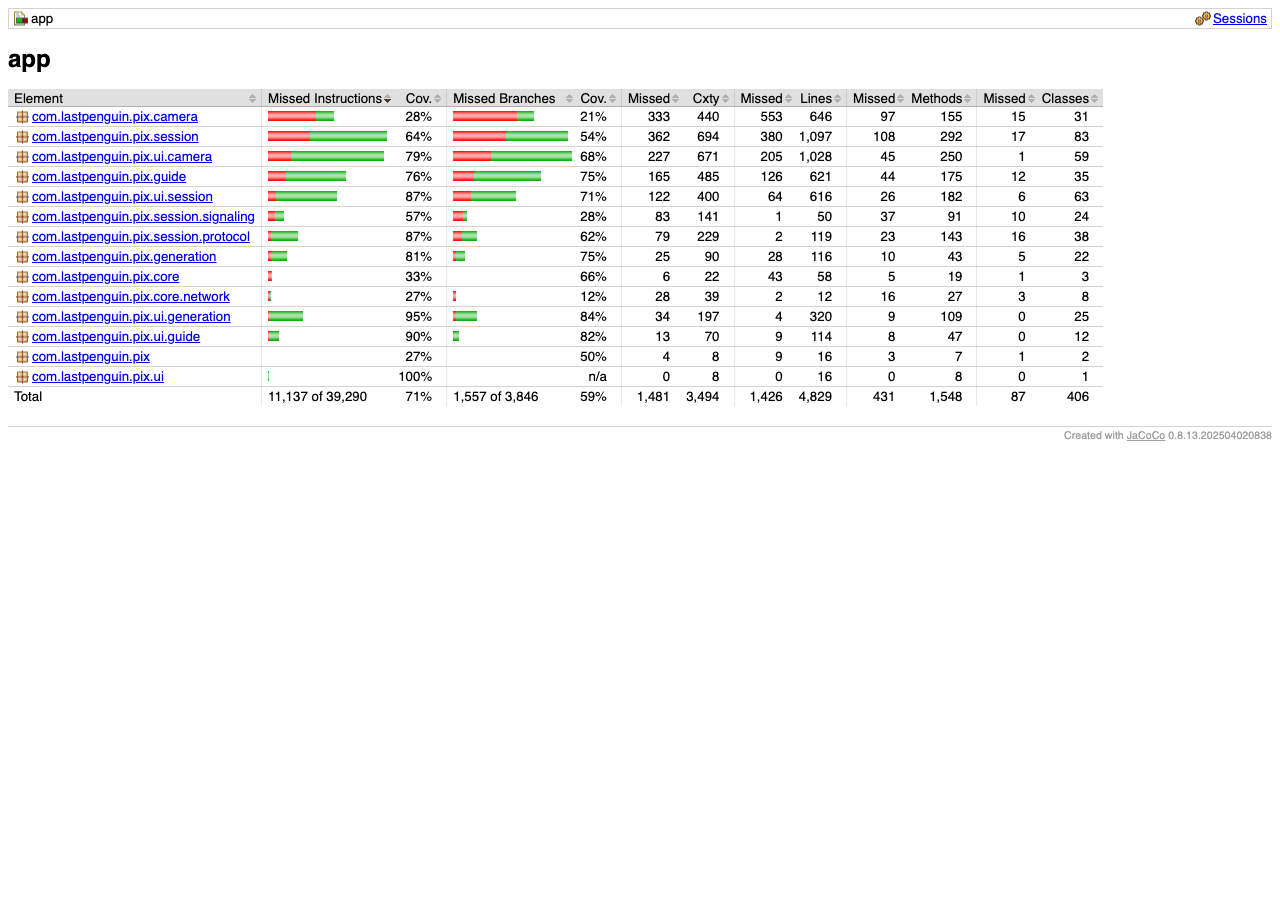
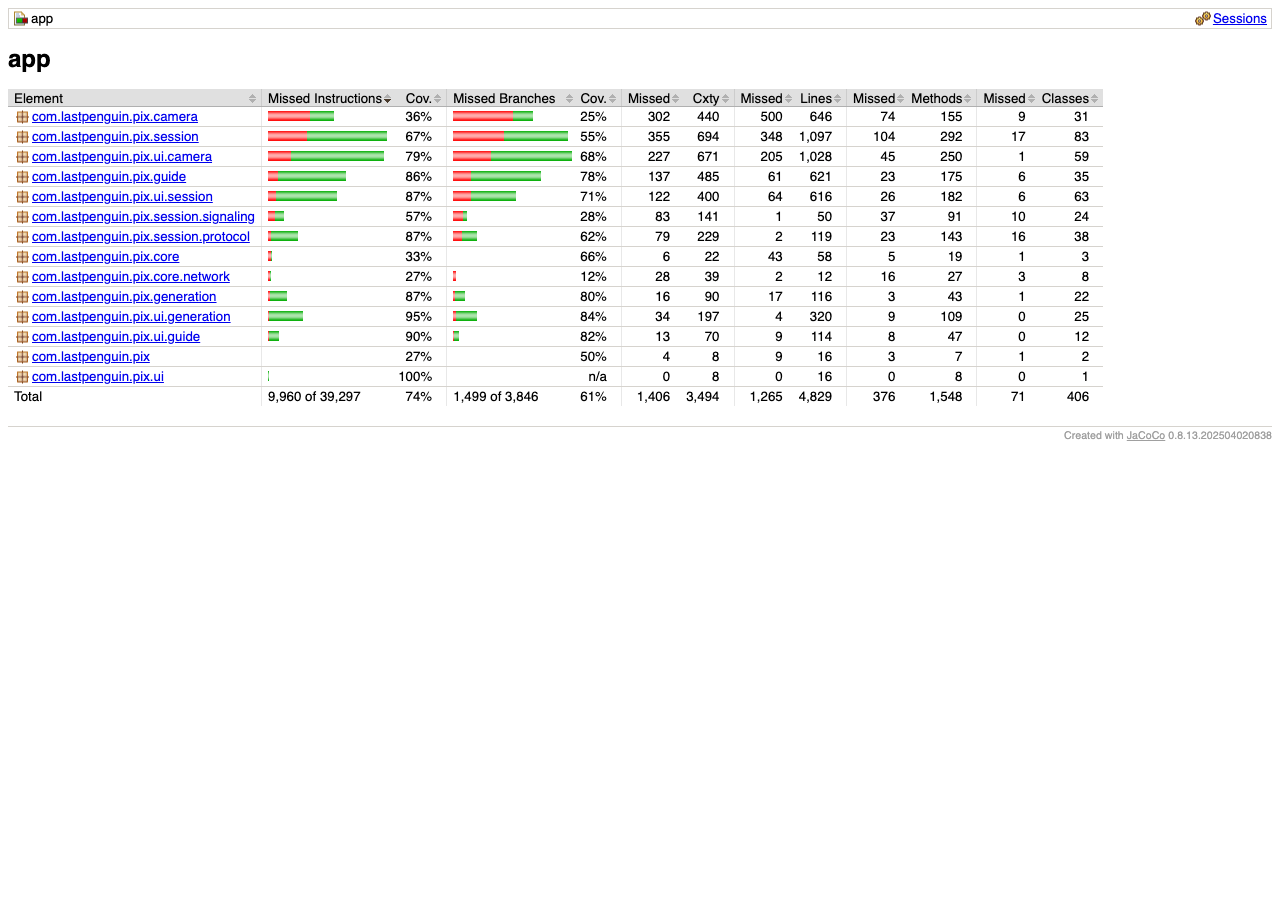
wiki: re-record the Iteration 2 results on the adapter-test commit

diff --git a/wiki/Testing-Documentation.md b/wiki/Testing-Documentation.md
@@ -240,17 +240,17 @@ Results are added per iteration and never overwritten; each iteration gets its o
 
 #### 2.2.1 Iteration 2 · unit and integration tests, coverage
 
-**Run.** Date: 2026-10-22 · Commit: `39c013c` on `chore/a1-coverage` (#94; the same code goes to `dev` with that PR) · Tester: 한준형 · Commands: those in 2.1.4, on a MacBook Air (Apple silicon) with JDK 21.0.12 and Python 3.11.17; the server suite on fakeredis and SQLite (the CI run on a real Redis and PostgreSQL is the same suite). The layer of each app class follows 2.1.2: `*ViewModel` are ViewModels; everything under `ui/` and the custom Views are Views; `CameraXController`, `CameraControls`, `MlKit…`, `Rtc…`, `WebRtc…`, `…SignalingClient`, `CameraFrameSource`, `CameraFrameCache`, `SubjectSegmenter`, `AndroidPose…`, `PhotoSaver`, `CameraLevelMonitor`, and the DataStore classes are platform adapters; `core/`, `MainActivity`, and `PixApplication` are glue, outside the targets; the rest are managers and repositories.
+**Run.** Date: 2026-10-22 · Commit: `0234b41` on `chore/a1-coverage` (#94; the same code goes to `dev` with that PR) · Tester: 한준형 · Commands: those in 2.1.4, on a MacBook Air (Apple silicon) with JDK 21.0.12 and Python 3.11.17; the server suite on fakeredis and SQLite (the CI run on a real Redis and PostgreSQL is the same suite). The layer of each app class follows 2.1.2: `*ViewModel` are ViewModels; everything under `ui/` and the custom Views are Views; `CameraXController`, `CameraControls`, `MlKit…`, `Rtc…`, `WebRtc…`, `…SignalingClient`, `CameraFrameSource`, `CameraFrameCache`, `SubjectSegmenter`, `AndroidPose…`, `PhotoSaver`, `CameraLevelMonitor`, and the DataStore classes are platform adapters; `core/`, `MainActivity`, and `PixApplication` are glue, outside the targets; the rest are managers and repositories.
 
 **Summary table.**
 
 | Component | Frameworks | Target (2.1.2, line) | Actual line | Actual branch | Date | Command / Report |
 |---|---|---|---|---|---|---|
-| App · managers and repositories | JUnit 4, coroutines-test, JaCoCo | 80 % (proposal) | **93.0 %** (1,121/1,205) | 71.8 % | 10/22 | `./gradlew :app:jacocoTestReport` · [report](images/testing_it2_jacoco.png) |
+| App · managers and repositories | JUnit 4, coroutines-test, JaCoCo | 80 % (proposal) | **93.6 %** (1,128/1,205) | 71.8 % | 10/22 | `./gradlew :app:jacocoTestReport` · [report](images/testing_it2_jacoco.png) |
 | App · ViewModels | JUnit 4, coroutines-test, JaCoCo | 75 % (proposal) | **94.1 %** (507/539) | 81.4 % | 10/22 | same |
 | App · Views and Fragments | JUnit 4, Robolectric, FragmentScenario, JaCoCo | 40 % (proposal) | **85.9 %** (1,484/1,727) | 70.1 % | 10/22 | same |
-| App · platform adapters | — (integration tests instead) | 30 % (proposal) | 23.2 % (325/1,398) | 18.5 % | 10/22 | same |
-| App · whole module (JaCoCo total) | | — | 70.5 % (3,403/4,829) | 59.5 % (2,289/3,846) | 10/22 | same |
+| App · platform adapters | JUnit 4, Robolectric (where the JVM can run them); integration tests for the rest | 30 % (proposal) | **34.6 %** (484/1,398) | 24.9 % | 10/22 | same |
+| App · whole module (JaCoCo total) | | — | 73.8 % (3,564/4,829) | 61.0 % (2,347/3,846) | 10/22 | same |
 | Server · `signaling`, `store`, `accounts` | pytest, pytest-cov | 90 % (proposal) | **97.6 %** (937/960) | 89.2 % | 10/22 | `uv run pytest --cov=pix_server --cov-branch` · [report](images/testing_it2_pytest_cov.png) |
 | Server · `poses` | pytest, pytest-cov | 85 % (proposal) | **99.3 %** (304/306) | 98.6 % | 10/22 | same |
 | Server · `main`, `config`, `errors`, `db` | pytest, pytest-cov | 60 % (proposal) | **98.9 %** (270/273) | 84.6 % | 10/22 | same |
@@ -262,23 +262,21 @@ Results are added per iteration and never overwritten; each iteration gets its o
 
 | Suite | Tests | Passed | Failed | Skipped | Time | Evidence |
 |---|---|---|---|---|---|---|
-| Android JVM, Robolectric, and screen tests (`:app:testDebugUnitTest`) | 468 | 468 | 0 | 0 | about 4 min (Robolectric's first SDK 36 sandbox included) | [screenshot](images/testing_it2_android_tests.png) |
+| Android JVM, Robolectric, and screen tests (`:app:testDebugUnitTest`) | 482 | 482 | 0 | 0 | about 4 min (Robolectric's first SDK 36 sandbox included) | [screenshot](images/testing_it2_android_tests.png) |
 | Server (`uv run pytest`, fakeredis and SQLite) | 423 | 423 | 0 | 0 | 49 s | [screenshot](images/testing_it2_server_tests.png) |
 
-Iteration 1 ended with 240 Android tests; Iteration 2 adds 228, of which 78 are the screen tests on the real Fragments (2.1.1). The server suite is new since Iteration 1's 97.
+Iteration 1 ended with 240 Android tests; Iteration 2 adds 242, of which 78 are the screen tests on the real Fragments and 14 the adapter tests with the segmenter double and `FakeImageProxy` (2.1.1). The server suite is new since Iteration 1's 97.
 
 **Known failing or skipped tests.** None. No test is quarantined.
 
 **Untested regions found by the coverage report.** Read from the untaken lines and branches, not added as cases yet:
 
-- App · adapters: `CameraXController` (0 of 421 lines), `WebRtcPeerConnectionClient` (0 of 158), `MlKitReferenceGuideMaker` (0 of 53), `CameraLevelMonitor` (0 of 36), `CameraFrameSource` (2 of 36): they need CameraX, libwebrtc, ML Kit, or a sensor, and are covered by the integration tests of 2.1.5 (IT-1, IT-5, IT-6, IT-8, IT-10). The parts that are pure decisions (`analysisSize`, the flash and exposure restore rules, the capability assembly) could be split out and tested on the JVM; not scheduled in Iteration 2.
+- App · adapters: `CameraXController` (0 of 480 lines), `WebRtcPeerConnectionClient` (0 of 221), `WebRtcRuntime` (0 of 21), `OkHttpSignalingClient` (0 of 42), and the ML Kit call in `SubjectSegmenter` (2 of 50): they need CameraX, libwebrtc, a WebSocket, or ML Kit, and are covered by the integration tests of 2.1.5 (IT-1, IT-5, IT-6, IT-8, IT-10). `MlKitReferenceGuideMaker` (85.5 %), `CameraFrameCache` (100 %), `CameraFrameSource` (94.4 %), and the DataStore classes (75 %) are tested on the JVM since revision 1.15; what is left in them is the `content://` decode, the native crop-and-scale, and the storage-error branches. The parts that are pure decisions (`analysisSize`, the flash and exposure restore rules, the capability assembly) could be split out and tested on the JVM; not scheduled in Iteration 2.
 - App · glue: `AppContainer.create` (0 of 37) wires the real modules and runs only in the app; candidate for the exclusion list in 2.1.3.
 - App · screens: `CameraFragment` 73.5 %: the gallery intent, the focus-ring animation, the last-frame hold during a ratio change, and the clicks that navigate; `AddGuideSheet` 85.3 % and `NoPersonFoundFragment` 77.8 %: the photo picker's result callbacks, which Robolectric cannot answer.
 - Server: `store/session_store.py` 91.0 % (the Redis-outage branch, lines 35–42), `signaling/registry.py` 93.7 % (the worker-lost and disconnect-while-sending paths), `signaling/router.py` 93.8 % (a close while a message is in flight). All are failure paths of a real Redis that fakeredis does not raise; the CI run on a real Redis exercises some of them.
 
-**Shortfalls against the targets.** The targets of 2.1.2 are still the proposals (the team confirms them with this record). Against the proposals, one component is short:
-
-- *Platform adapters, 23.2 % against 30 %.* The adapters wrap CameraX, libwebrtc, and ML Kit, which the JVM cannot run; `RtcSessionManager` is tested (246 of 279 lines) but the three classes above are not. Plan: confirm the target at 20 % with the reason recorded next to the original 30 %, or exclude `CameraXController` and `WebRtcPeerConnectionClient` from the report with their verification named in 2.1.3 (IT-1, IT-5, IT-6, IT-8, IT-10); either is decided with the targets. The other three app components and the three server components are above their proposals.
+**Shortfalls against the targets.** The targets of 2.1.2 are still the proposals (the team confirms them with this record). Against the proposals, no component is short. Platform adapters stood at 23.2 % on `39c013c` and reached 34.6 % on this commit by testing the adapters the JVM can run (revision 1.15); the rest of that layer (`CameraXController`, `WebRtcPeerConnectionClient`, `WebRtcRuntime`, `OkHttpSignalingClient`) stays with the integration tests, and splitting `CameraXController`'s decisions (the capability assembly, the restore-after-rebind rules) into testable objects is the next step if the target is raised, after Iter2-P5 (#47) has touched that file.
 
 **Mutation analysis (2.1.7).** Not run in Iteration 2; the tooling is set up in Iteration 3.
 
@@ -385,5 +383,6 @@ One line per recorded run, newest first, so the history of the numbers is visibl
 
 | Date | Iteration | What ran | Commit | Outcome | Section |
 |---|---|---|---|---|---|
-| 2026-10-22 | 2 | Unit, Robolectric, and screen tests; server; coverage | `39c013c` | 468 + 423 tests, 0 failed; line coverage app 70.5 % (managers 93.0, ViewModels 94.1, Views 85.9, adapters 23.2) / server 98.2 % | 2.2.1 |
+| 2026-10-22 | 2 | Unit, Robolectric, screen, and adapter tests; server; coverage | `0234b41` | 482 + 423 tests, 0 failed; line coverage app 73.8 % (managers 93.6, ViewModels 94.1, Views 85.9, adapters 34.6) / server 98.2 % | 2.2.1 |
+| 2026-10-22 | 2 | Unit, Robolectric, and screen tests; server; coverage | `39c013c` | 468 + 423 tests, 0 failed; line coverage app 70.5 % (managers 93.0, ViewModels 94.1, Views 85.9, adapters 23.2) / server 98.2 % | 2.2.1 (superseded above) |
 | 2026-10-DD | 2 | Integration IT-1 … IT-10 (pending) | | | 2.2.2 |
